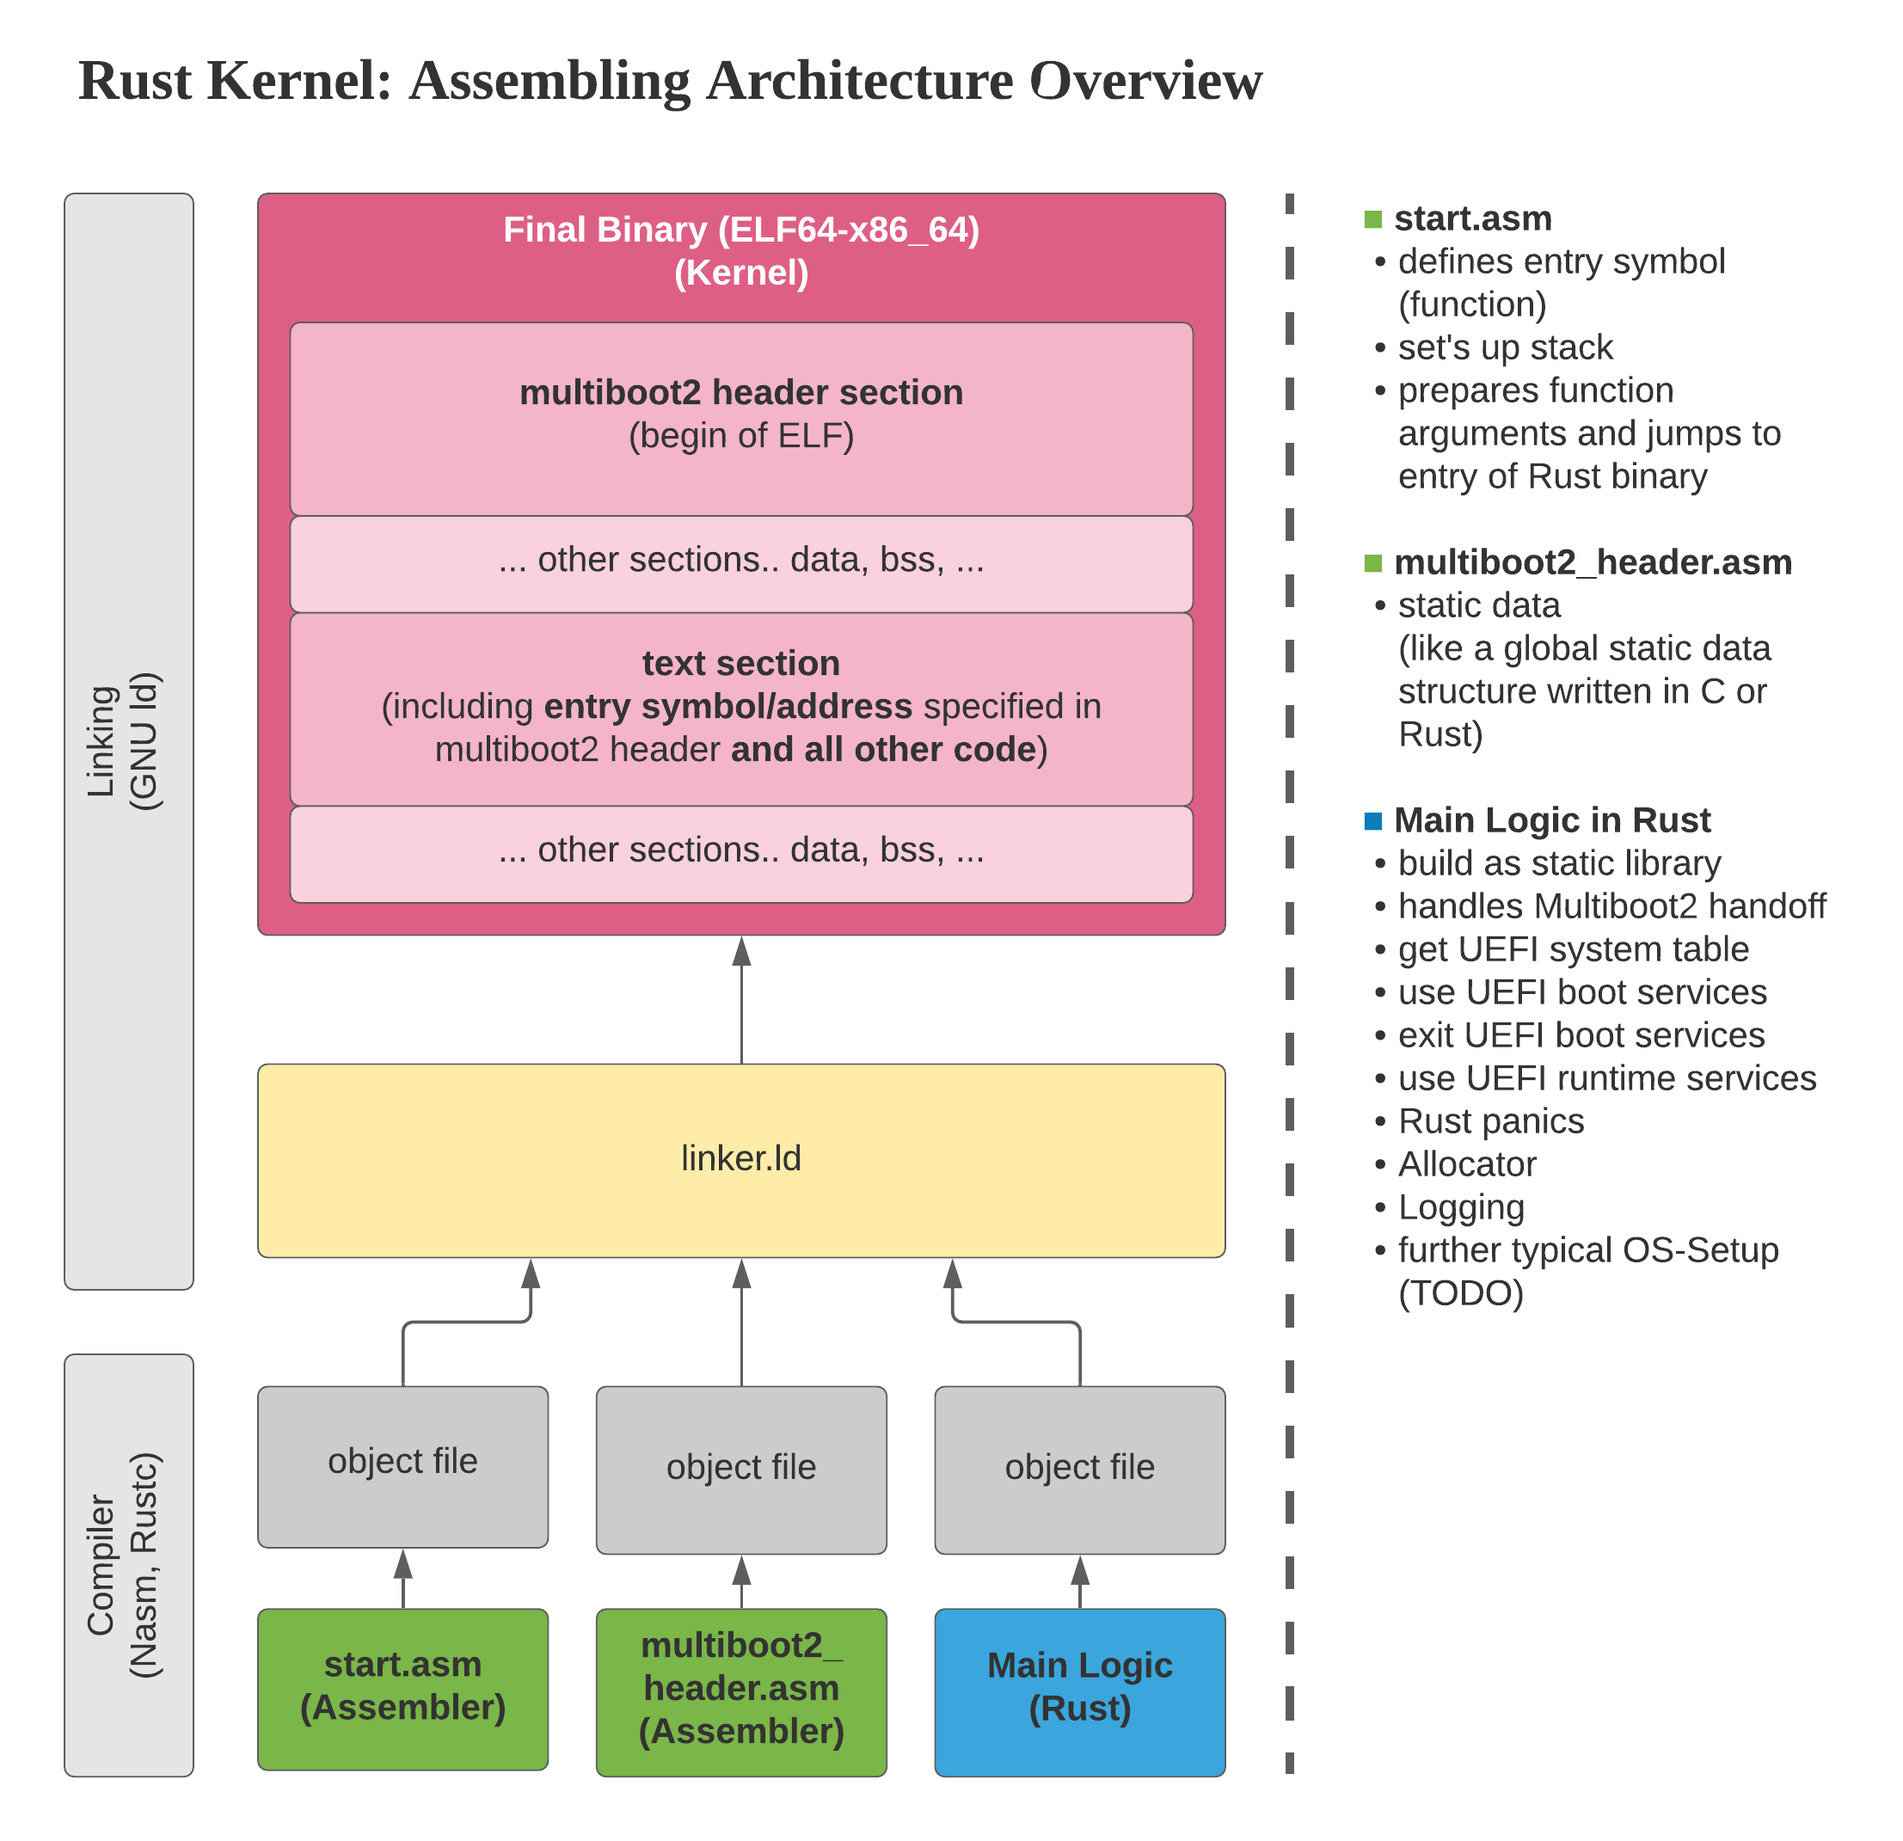
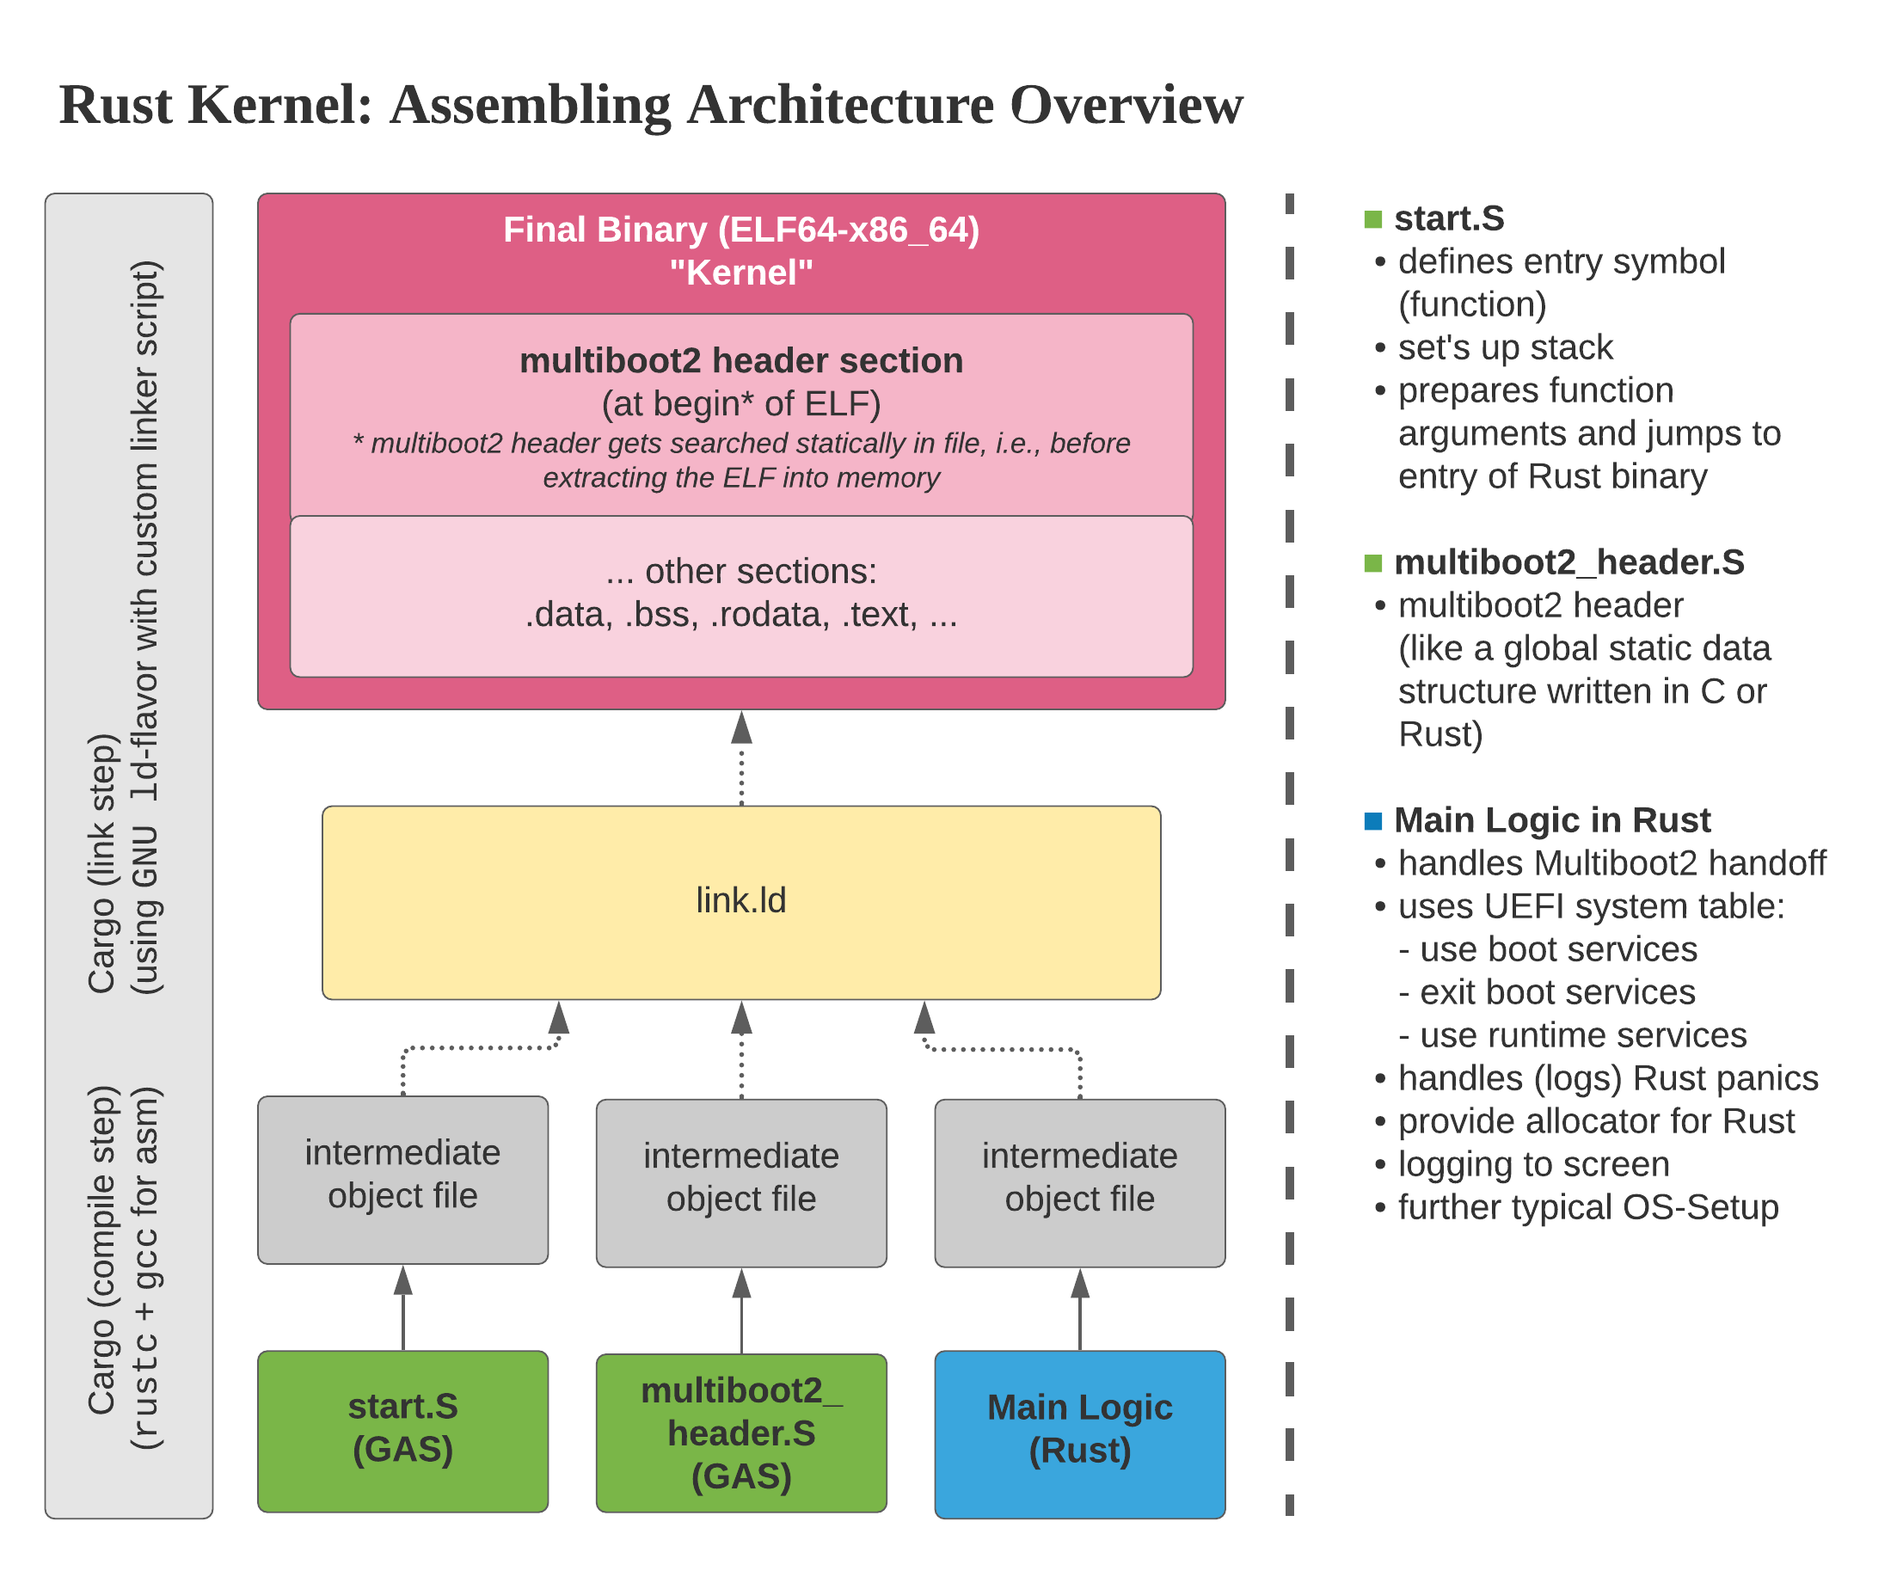
Fixed README, comments, figure, gitignore, OVMF
run-script now uses OVMF from system package

diff --git a/src/rust/rust-kernel/src/main.rs b/src/rust/rust-kernel/src/main.rs
@@ -54,14 +54,8 @@ use uefi::table::runtime::ResetType;
 use crate::sysinfo::SysInfo;
 // use uefi::proto::console::text::Color;
 
-/// This symbol is referenced in "start.asm". It doesn't need the "pub"-keyword,
+/// This symbol is referenced in "start.S". It doesn't need the "pub"-keyword,
 /// because visibility is a Rust feature and not important for the object file.
-///
-///
-/// When this gets executed, we are definitely in a multiboot2 environment.
-/// This is checked in the assembly. After many attempts, I decided against doing
-/// this in Rust, because `eax` was always overwritten, before the initial read.
-///
 #[no_mangle]
 fn entry_64_bit(eax: u32, ebx: u32) -> ! {
     // Make sure all "BootStageAware"-compatible structs get their right initial state

diff --git a/README.md b/README.md
@@ -1,4 +1,4 @@
-# Rust Multiboot2 Binary (Kernel) (x86_64)
+# Build Setup Prototype to Compile a Multiboot2 Binary in Rust for `x86_64`
 
 This project builds a minimal `multiboot2`-compatible [[1]] binary (kernel) where the main logic is written in Rust. 
 **"multiboot2"** refers to a specification [[1]] that defines the handoff from a bootloader to a payload. It has nothing
@@ -6,21 +6,26 @@ to do with "multiple OS boot environments"! The binary gets packaged as an `ELF6
 by `GRUB` [[0]], a`multiboot2`-compliant bootloader. The demo project focuses on the **x86_64** processor architecture 
 and `UEFI` as firmware environment.
 
-## What this Project Builds
+Although this could be developed to a fully functional (micro)kernel, this is out of scope of this prototype. It is 
+limited to fetch data from `UEFI` firmware and `cpuid` and logging this information to the screen. The main goals 
+were to figure out how such a setup could look like and how we could keep developer experience and productivity high. 
+For example, to achieve the latter, this repository contains an easy mechanism to start it in `QEMU`.
+This project uses `GRUB` + `multiboot2` instead of a custom `UEFI`-loader-app, because at the company
+where I developed this prototype, we have a component, that must be loadable by `GRUB`. Therefore it was important
+to collect experience, how this can be done in Rust.
+
+## Build Process of the Kernel
 
 To be exact, the entry point into the kernel is written in assembly, but the logic is minimal and the handoff
-to the code produced by the Rust compiler follows shortly. It's the responsibility of the Rust code, to cope with the 
-`multiboot2` payload (**multiboot information structure**) and all the system setup. The final binary gets assembled 
-from multiple object files: 
+to the code produced by the Rust compiler follows shortly. The assembly code will do some minimal setup of
+the stack and other things, before it jumps into the code generated by the Rust compiler. It's the responsibility of 
+the Rust code, to cope with the `multiboot2` payload (**multiboot information structure** (*mib*)) and all the system 
+setup. The final binary gets completely assembled by `cargo`. We include [global assembly](https://phip1611.de/blog/include-assembler-source-files-in-rust-project-and-build-with-cargo/) 
+(i.e., `*.S`-files next to the `*.rs`-files) and use a custom linker script (for `GNU ld`). Therefore, the setup
+is similar to several `C`-projects, where also Assembly-Source and High Level-Source are compiled together in one build step.
 
-- `multiboot2_header.asm -> multiboot2_header.o` 
-- `start.asm => start.o`
-- static library build from Cargo project (written entirely in Rust)
-
-The **GNU linker** `ld` uses the linker script in `src/linker.ld` and the object files to assemble the final ELF binary. 
-Inside this repository you will find `build.sh` and `run_qemu.sh`, which enables you to "see" what's happening and to 
-test everything. **There are plenty of comments in the shell scripts and the code, therefore this `README` only gives a 
-high-level overview.**
+There is no way this can be achieved without any assembly at all, because some low-level, architecture-specific preparetion
+code is always required. At least one needs to configure the stack properly.
 
 The figure below gives you a comprehensive overview over the assembling of the final artefact, an `ELF64-x86_64`-file.
 
@@ -43,15 +48,19 @@ With a boot-order of `firmware > GRUB > %my-binary%`, the binary could take the 
 ---
 
 ### Software/Tool versions 
-
+#### Required Packages & Tools
+- `rustc` and `cargo` (e.g. via `rustup`)
+- `gcc` for global assembly files
+- `ovmf` (for testing in `QEMU` only)
+#### Notes
 - I tested the built on an Ubuntu 20.04 system with Linux 5.8.0
-  - probably doesn't build on other platforms; it requires linkers that produce ELF files
-- Rust-binary built using **Rust** `1.54-nightly`.
-- `*.asm`-compilation compilation tested with **nasm** `2.14.02`
-- linking the object files together was tested with **GNU ld** `2.34`
+  - probably doesn't build on other operating systems than Linux (not tested)
+- because of the file`rust-toolchain.toml` `cargo` will use the correct compiler
+  version by default
 - "run in QEMU"-demonstration tested with
   - **GRUB**: 2.04-1ubuntu26.1
   - **QEMU**: 4.2.1
+  - `OVMF` files are searched in `/usr/share/OVMF`
 
 ---
 
@@ -65,11 +74,11 @@ up and use other cores eventually.
 
 *Side note: In Intel's manuals the "BP" is also called "bootstrap processor" (BSP).*
 
-The kernel instructs the bootloader `GRUB` via a specific tag in the `multiboot2` header to give us the 
-`AMD64`-machine state after handoff with `UEFI` boot services enabled. `AMD64` is a synonym for `x86_64` and the 
+The `multiboot2`-header inside the `ELF` of the kernel instructs the bootloader `GRUB` via a specific header tag 
+to give us the `AMD64`-machine state after handoff with `UEFI` boot services enabled. `AMD64` is a synonym for `x86_64` and the 
 `AMD64` state is specified inside the `multiboot2` spec [[1]]. Further details get explained in the following
-sections. Right before handoff, `GRUB` stores the pointer to the **multiboot information structure** in register `ebx` 
-and a magic `multiboot2` number in `eax`. 
+sections. Right before handoff, `GRUB` stores the pointer to the **multiboot information structure** (*mbi*) in 
+register `ebx` and a magic `multiboot2` number in `eax`. 
 
 
 #### UEFI vs BIOS
@@ -77,10 +86,10 @@ and a magic `multiboot2` number in `eax`.
 For `multiboot2`-compliant binaries it's irrelevant whether the firmware
 is a legacy `BIOS` or an `UEFI`-implementation. What's relevant is that the binary 
 gets a `multiboot2` structure passed as payload, that contains multiple "tags".
-A tag can for example contain the "memory map" of the `UEFI` [[1]]. 
+A tag can for example contain the `UEFI system table` [[1]]. 
 
 Therefore, a "100% bullet proof" kernel should cope with two kinds of firmware (legacy BIOS and UEFI). In this
-example, for the sake of simplicity and because legacy sucks, I only focus on `UEFI`. When our binary starts, the 
+example, for the sake of simplicity and because want to avoid legacy, I only focus on `UEFI`. When our binary starts, the 
 `UEFI boot time services` are still available. Consult the `UEFI`-spec for further information. This means, that it is 
 up to our binary to exit the boot services eventually.
 
@@ -90,40 +99,44 @@ up to our binary to exit the boot services eventually.
 The initial processor mode of the boot processor gets influenced at first by the platform and the underlying firmware. 
 If your platform (mainboard/chipset) used legacy `BIOS`, the handoff from the firmware to the bootloader will happen in
 `16-bit real mode`. If you use `UEFI` with `CSM` (compatibility support module) enabled, it will happen in 
-`32-bit protected mode` [Intel® Platform Innovation for UEFI - CSM Specification: [5]]. If you have a modern
+`32-bit protected mode` [Intel® Platform Innovation for UEFI - CSM Specification: [[5]]]. If you have a modern
 `UEFI`, the handoff takes place in either `32-bit protected mode` for `x86` processors or `64-bit long mode` for 
-`x86_64` CPUs [Section 2.3.2/2.3.4 [4]].
+`x86_64` CPUs [Section 2.3.2/2.3.4 [[4]]].
 
-`GRUB` is an `EFI`-application and runs as `64-bit code`. Because our prototype kernel only focuses on `x86_64` with 
-`UEFI` and our `multiboot2` header instructs the bootloader to give us the `AMD64` state (alias for `x86_64`) [Section 3.5: [1]], `GRUB` 
-is not required to do any action in this specific regard, because the boot processor is all the time in the correct mode. 
+`GRUB` is an `EFI`-application and runs as `64-bit code` in our case. Because our prototype kernel only focuses on `x86_64` with 
+`UEFI` and our `multiboot2` header instructs the bootloader to give us the `AMD64` state (alias for `x86_64`) 
+[Section 3.5: [[1]]], `GRUB` is not required to do any action in this specific regard, because the boot processor is 
+all the time in the correct mode. 
 
-Furthermore, as specified in [Section 3.5 [1]/Section 2.3.4: [4]] interrupts are enabled as well as a few
+Furthermore, as specified in [Section 3.5 [[1]]/Section 2.3.4: [[4]]] interrupts are enabled as well as a few
 other settings being made.
-
-If we want to boot other cores eventually, we find background infos in  
-[**Combined Volume Set of Intel® 64 and IA-32 Architectures Software Developer’s Manuals**/8.4 Multiple-Processor (MP) 
-Initialization [6]]. This prototype doesn't implement this so far, but because it's interesting and not widely known,
-I'd like to give a few details. The other cores are called *application processors* (APs) in Intel manuals and a
-after a power-up or reset, the APs also complete a minimal self-configuration, and then wait for a startup signal 
-(a *SIPI message*)[[6]] from the BP. Each AP can be addressed by
-its unique *APIC ID* [[6]]. APIC stands for *Advanced Programmable Interrupt Controller* and is another specification.
-
-This means each AP waits basically for an interrupt send by the BP. If the kernel follows the procedure described
-in the manual [[6]], each core will **TODO will UEFI do something here? WIll the use the same UEFI page table etc?
-Will they also be in 64-bit mode?**
-
-
 
 *Side note: Theoretically `multiboot2` would give us a big benefit in this regard in legacy-boot environments
 (or `UEFI` with `CSM`), because it could give us the `64-bit long mode`-state, which wouldn't be initially there.
 We wouldn't have to make all the transitions by ourselves.*
 
 
+If we want to boot other cores eventually, we find background infos in  
+[**Combined Volume Set of Intel® 64 and IA-32 Architectures Software Developer’s Manuals**/8.4 Multiple-Processor (MP) 
+Initialization [[6]]]. This prototype doesn't implement this so far, but because it's interesting and not widely known,
+I'd like to give a few details. The other cores are called *application processors* (APs) in Intel manuals and
+after a power-up or reset, the APs also complete a minimal self-configuration, and then wait for a startup signal 
+(a *SIPI message*)[[6]] from the BP. Each AP can be addressed by
+its unique *APIC ID* [[6]]. APIC stands for *Advanced Programmable Interrupt Controller*, which is `x86_64`'s mechanism 
+to deliver interrupts.
+
+This means each AP waits basically for an interrupt from the BP. If the kernel follows the procedure described
+in the manual [[6]], each core will receive an address with code to execute. This code
+will usually bring the core into `64-bit long mode`. Further work is kernel specific.
+
+
+
+
+
 #### Stack
 
-I'm not 100% sure here. `UEFI` gives us a `128KiB` of stack according to the spec [[4]], but I think `GRUB` uses it 
-already. Therefore, I define my own stack in `start.asm`, before the dispatch to the Rust binary happens. This way, we 
+`UEFI` gives a payload a `128KiB` of stack according to the spec [[4]], but this is used by `GRUB`
+Therefore, we define our own stack in `start.S`, before the dispatch to the Rust binary happens. This way, we 
 have enough stack for our needs, and the additional memory usage is negligible.
 
 #### Memory
@@ -136,7 +149,7 @@ is not implemented yet, this section may change in the future.
 
 #### Summary Environment
 
-The following figure summarizes the important boot flow and environment.
+The following figure summarizes the important boot flow and the environment to cope with.
 
 ![Boot Environment Overview](./doc/figures/rust-kernel-boot-environment.png "Boot Environment Overview")
 
@@ -147,13 +160,14 @@ The following figure summarizes the important boot flow and environment.
 `QEMU` itself has a `-kernel`-option to boot a `multiboot`-kernel. Unfortunately, this doesn't support `multiboot2` 
 but we have a `multiboot2` binary/kernel here. Therefore, I took the approach of loading `edk2/OVMF` (`UEFI`) into 
 `QEMU`, which itself loads the `GRUB`-binary. `GRUB` will finally load the `multiboot2` binary. The entry point will
-be called, which is specified by the assembly code in `start.asm`.
+be called, which is specified by the assembly code in `start.S`.
 
 #### Getting Output (in QEMU) & Debug
-It's hard to get output because at this point we can't easily draw to GUI or print to STDOUT.. :)
+It's not completely trivial to get output in this early stage of the boot.
+Luckily, `QEMU` helps us. 
 
 ##### Output & Debug A: Change Register Values and `halt`
-You can write a value into a register and halt. In the QEMU GUI, you can open 
+You can write a value into a register and `hlt` (stop the processor). In the QEMU GUI, you can open 
 `View > compatmonitor0` and type `info registers`- you should see the register values!
 Use this code for example:
 
@@ -162,11 +176,9 @@ unsafe { asm!("mov edi, {val}", "cli", "hlt", val = const 0x0bad_f00d_u32) };
 ```
 
 ##### Output & Debug B: Use QEMUs 'debugcon' Feature
-- TODO, this section needs TODO (didn't work for me yet)
-- Qemu has a debug port called "debug conn"
-- with it, the application can use `out al, 0xe9` (x86 IO port)
-- Qemu can map this debug connection to a file or stdout
-- TODO add link from my blog
+On `x86[_64]` one can the `I/O-port 0xe9` to write data, for example
+ASCII to the outer world. QEMU can capture this into a file. See
+this [blog post for more details](https://phip1611.de/blog/how-to-use-qemus-debugcon-feature-and-write-to-a-file/).
 
 ---
 
@@ -181,11 +193,12 @@ unsafe { asm!("mov edi, {val}", "cli", "hlt", val = const 0x0bad_f00d_u32) };
 
 ## Open Questions / TODO
 - [x] Heap inside application?!
-- [ ] move linker script into `x86_64-none-multiboot2_elf.json` (link args etc?!)
 - [ ] How to ensure in Linker Script, that no code is mapped to address
       where UEFI stuff is stored?
+  - [ ] make file relocatable \
+    currently hard to implement, because GRUB doesn't support relocatable ELF 
+    files. We didn't put much effort into this yet.
 - [ ] Debug and Prod build
-- [ ] build a relocatable final binary to ensure that no code or data can overwrite uefi memory
 
 
 ## References
